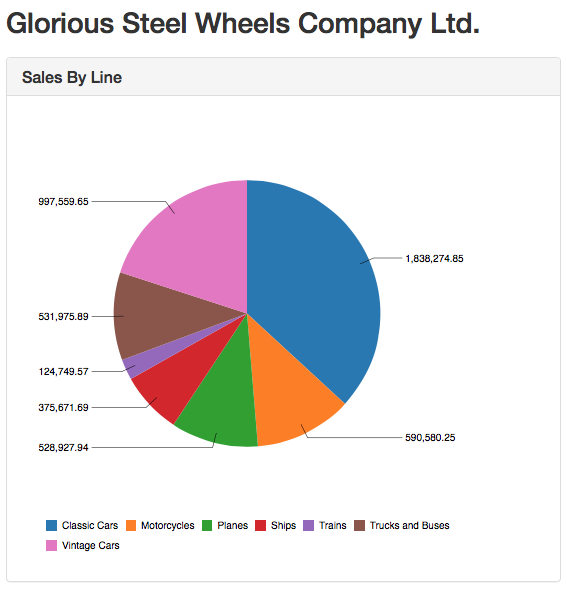
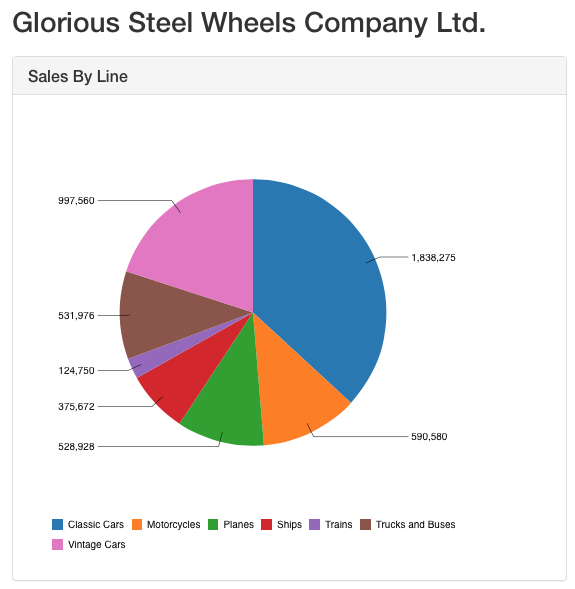
ccc chart label article updated

diff --git a/_posts/2015-04-14-Pentaho-CCC-Chart-Label-Formatting.md b/_posts/2015-04-14-Pentaho-CCC-Chart-Label-Formatting.md
@@ -28,8 +28,7 @@ One of the easier ways to manipulate the value labels is to use the **Extension 
 
 ```javascript
 label_text: function(obj) { 
-    //console.log(obj);
-    return Dashboards.numberFormat(obj.vars.value.value, '#,###.00');   
+    return Dashboards.numberFormat(obj.vars.value.value, '#,###');   
 }
 ```
 
